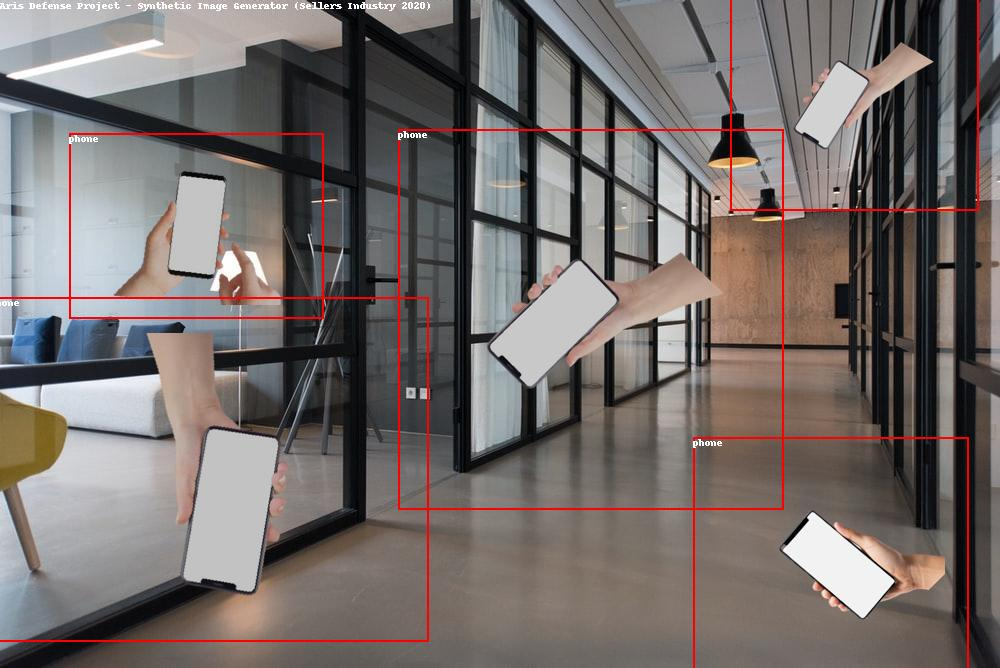
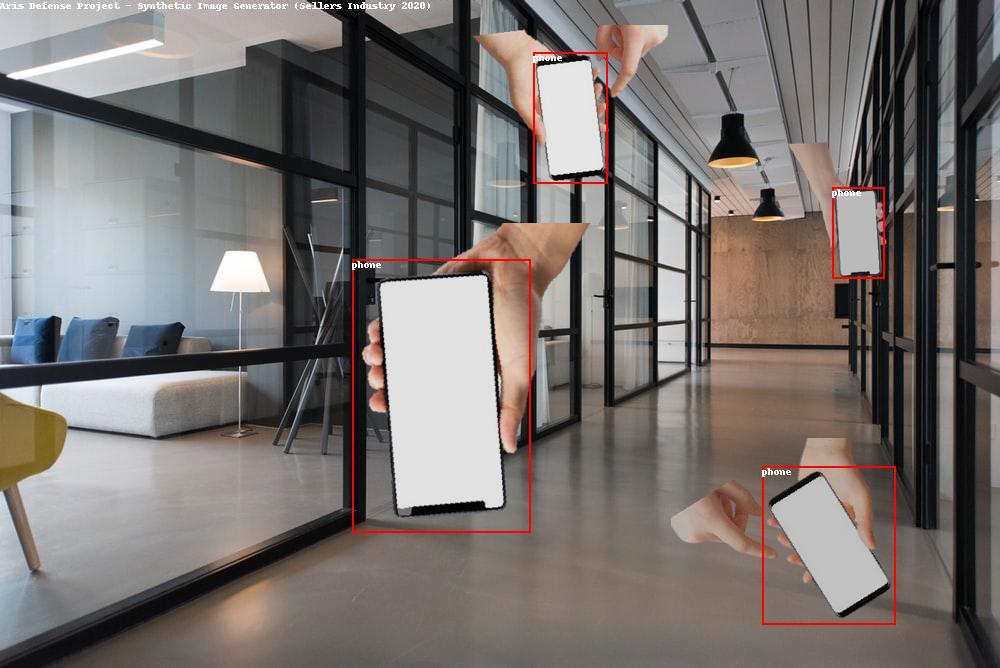
crop utility

Changed region(s): [[0.0, 0.0, 0.992, 1.0]]

diff --git a/index.py b/index.py
@@ -1,5 +1,17 @@
-# Sellers Industry 2020
-# Aris Defense Project - Synthetic Image Generator
+#
+#   Copyright (C) 2020 Sellers Industry - All Rights Reserved
+#   Unauthorized copying of this file, via any medium is strictly
+#   prohibited. Proprietary and confidential.
+#
+#   author: Evan Sellers <sellersew@gmail.com>
+#   date: Sat Oct 16 2020
+#   file: index.py
+#   project: Sythetic Dataset Generator
+#   purpose: This sythetic dataset creator will take images with
+#       no background and place many ontop background images
+#
+#
+
 
 import os
 import math 
@@ -14,7 +26,7 @@ img_path = "images"
 xml_path = "annotations"
 bg_dir   = os.path.join( os.getcwd(), "backgrounds" )
 cl_dir   = os.path.join( os.getcwd(), "objects" ) 
-counter  = 0;
+counter  = 0
 
 # config
 config = {
@@ -69,8 +81,8 @@ def imageManipulation( image, bounding ):
 
     # Rotation Matrixs
     if config[ "rotate_min" ] != 0:
-        rotate = random.randint( config[ "rotate_min" ], config[ "rotate_max" ] );
-        image  = image.rotate( rotate );
+        rotate = random.randint( config[ "rotate_min" ], config[ "rotate_max" ] )
+        image  = image.rotate( rotate )
         c_TL = rotatePoint( ( w / 2, h / 2 ), ( x1, y1 ), math.radians( -rotate ) )
         c_TR = rotatePoint( ( w / 2, h / 2 ), ( x2, y1 ), math.radians( -rotate ) )
         c_BL = rotatePoint( ( w / 2, h / 2 ), ( x1, y2 ), math.radians( -rotate ) )
@@ -82,11 +94,11 @@ def imageManipulation( image, bounding ):
 
     # Contrast Changes
     if config[ "contrast_min" ] != 100:
-        image = ImageEnhance.Contrast( image ).enhance( random.uniform( config[ "contrast_min" ], config[ "contrast_max" ] ) / 100 );
+        image = ImageEnhance.Contrast( image ).enhance( random.uniform( config[ "contrast_min" ], config[ "contrast_max" ] ) / 100 )
 
     # Brightness Changes
     if config[ "brightness_min" ] != 100:
-        image = ImageEnhance.Brightness( image ).enhance( random.uniform( config[ "brightness_min" ], config[ "brightness_max" ] ) / 100 );
+        image = ImageEnhance.Brightness( image ).enhance( random.uniform( config[ "brightness_min" ], config[ "brightness_max" ] ) / 100 )
 
     return image, ( x1, y1, x2, y2 )
 
@@ -101,11 +113,11 @@ def overlap( _bbox, bbox ):
     for i in range( 0, len( _bbox ) ):
         if axis_overlap( _bbox[ i ][ 0 ], _bbox[ i ][ 2 ], bbox[ 0 ], bbox[ 2 ] ) and axis_overlap( _bbox[ i ][ 1 ], _bbox[ i ][ 3 ], bbox[ 1 ], bbox[ 3 ] ):
             return True
-    return False;
+    return False
 
 
 def xml_basic( file_name, image_size ):
-    root = gfg.Element( "annotation" );
+    root = gfg.Element( "annotation" )
 
     folder = gfg.Element( "folder" ) 
     folder.text = "images"
@@ -116,7 +128,7 @@ def xml_basic( file_name, image_size ):
     root.append( filename )
 
     path = gfg.Element( "path" ) 
-    path.text = str( img_path + "/" + file_name );
+    path.text = str( img_path + "/" + file_name )
     root.append( path )
 
     size = gfg.Element( "size" ) 
@@ -152,7 +164,7 @@ def xml_append( root, obj_class, bbox ):
     object_bndbox_ymax = gfg.SubElement( object_bndbox, "ymax" ) 
     object_bndbox_ymax.text = str( int( bbox[ 3 ] ) )
 
-    root.append( _object );
+    root.append( _object )
 
     return root
 
@@ -161,11 +173,11 @@ def xml_append( root, obj_class, bbox ):
 for background_img in os.listdir( bg_dir ):
     if background_img.endswith( ".jpg" ) or background_img.endswith( ".png" ):
 
-        background = Image.open( os.path.join( bg_dir, background_img ) );
-        name       = config[ "file_prefix" ] + str( counter );
+        background = Image.open( os.path.join( bg_dir, background_img ) )
+        name       = config[ "file_prefix" ] + str( counter )
         img_name   = name + ".jpg"
         xml_name   = name + ".xml"
-        boundings  = []; # each bounding added
+        boundings  = [] # each bounding added
 
         xml_annotation = xml_basic( img_name, ( background.size[ 0 ], background.size[ 1 ] ) )
 
@@ -219,7 +231,7 @@ for background_img in os.listdir( bg_dir ):
                         boundings.append( ( _x, _y, _x + _width, _y + _height ) )
 
         counter += 1
-        background.save( os.path.join( save_dir, img_path, img_name ) );
+        background.save( os.path.join( save_dir, img_path, img_name ) )
 
         with open( os.path.join( save_dir, xml_path, xml_name ), "wb") as f: 
             f.write( gfg.tostring( xml_annotation ) )

diff --git a/crop.py b/crop.py
@@ -4,11 +4,11 @@
 #   prohibited. Proprietary and confidential.
 #
 #   author: Evan Sellers <sellersew@gmail.com>
-#   date: Sat Oct 16 2020
-#   file: preview.py
+#   date: Sat Nov 07 2020
+#   file: crop.py
 #   project: Sythetic Dataset Generator
-#   purpose: Will take the output data from the generator and draw
-#       bounding boxes around each object
+#   purpose: Will take the output data from the generator and crop
+#       an image around each object.
 #
 #
 
@@ -20,8 +20,7 @@ from PIL import Image, ImageFont, ImageDraw, ImageEnhance
 directory = os.path.join( os.getcwd(), "output" )
 images_dir = os.path.join( directory, "images" )
 annotations_dir = os.path.join( directory, "annotations" )
-output_dir = os.path.join( directory, "preview" )
-outlineColor = "red"
+output_dir = os.path.join( directory, "crop" )
 
 for annotation in os.listdir( annotations_dir ):
     file = json.loads( json.dumps( xmltodict.parse( ET.tostring( ET.parse( os.path.join( annotations_dir, annotation ) ).getroot() ) ) ) )[ "annotation" ]
@@ -34,10 +33,10 @@ for annotation in os.listdir( annotations_dir ):
     else:
         bbox.append( file[ "object" ] )
 
-    for bounding in range( 0, len( bbox ) ):
-        draw = ImageDraw.Draw(source_img)
-        draw.rectangle( ( int( bbox[ bounding ][ "bndbox" ][ "xmin" ] ), int( bbox[ bounding ][ "bndbox" ][ "ymin" ] ), int( bbox[ bounding ][ "bndbox" ][ "xmax" ] ), int( bbox[ bounding ][ "bndbox" ][ "ymax" ] ) ), outline=outlineColor, width=max( int( source_img.size[ 0 ] / 500 ), 1 ) )
-        draw.text((int( bbox[ bounding ][ "bndbox" ][ "xmin" ] ), int( bbox[ bounding ][ "bndbox" ][ "ymin" ] )), bbox[ bounding ][ "name" ] )
+    crop_count = 0
 
-    draw.text( ( 0, 0 ), "Aris Defense Project - Synthetic Image Generator (Sellers Industry 2020)" )
-    source_img.save( os.path.join( output_dir, file[ "filename" ] ) )
+    for bounding in range( 0, len( bbox ) ):
+        img_crop = source_img.copy()
+        img_crop = img_crop.crop( ( int( bbox[ bounding ][ "bndbox" ][ "xmin" ] ), int( bbox[ bounding ][ "bndbox" ][ "ymin" ] ), int( bbox[ bounding ][ "bndbox" ][ "xmax" ] ), int( bbox[ bounding ][ "bndbox" ][ "ymax" ] ) ) ) 
+        img_crop.save( os.path.join( output_dir, os.path.splitext( file[ "filename" ] )[ 0 ] + "_c" + str( crop_count ) + os.path.splitext( file[ "filename" ] )[ 1 ] ) )
+        crop_count += 1

diff --git a/readme.md b/readme.md
@@ -33,7 +33,18 @@ By default it will grab from the `output` directory. So you must make a folder c
 <br>
 <br>
 
+## Crop System
+New crop freature allows you to crop around each object image that was generated from the annotations. It will take what ever is loaded in the output folder and crop around each bounding box. Run this script after you have generated the output using the `crop.py` script.
+
+By default it will grab from the `output` directory. So you must make a folder called `output/crop` and the images will be placed here. You can edit the directories in the `preview.py` python file.
+
+![Example Preview](example3.jpg)
+
+<br>
+<br>
+
 ### Updates
+- **(11/7/20)** Added script utility to crop around the bounding boxes created.
 - **(11/7/20)** Now allows generation without an annotation for an image. If an image does not have an annotation will place the bounding box around the whole image that was placed.
 - **(8/18/20)** Added preview feature allowing you to draw bounding boxes over annotations that were generated
 - **(8/18/20)** Fixed integer random failor point
